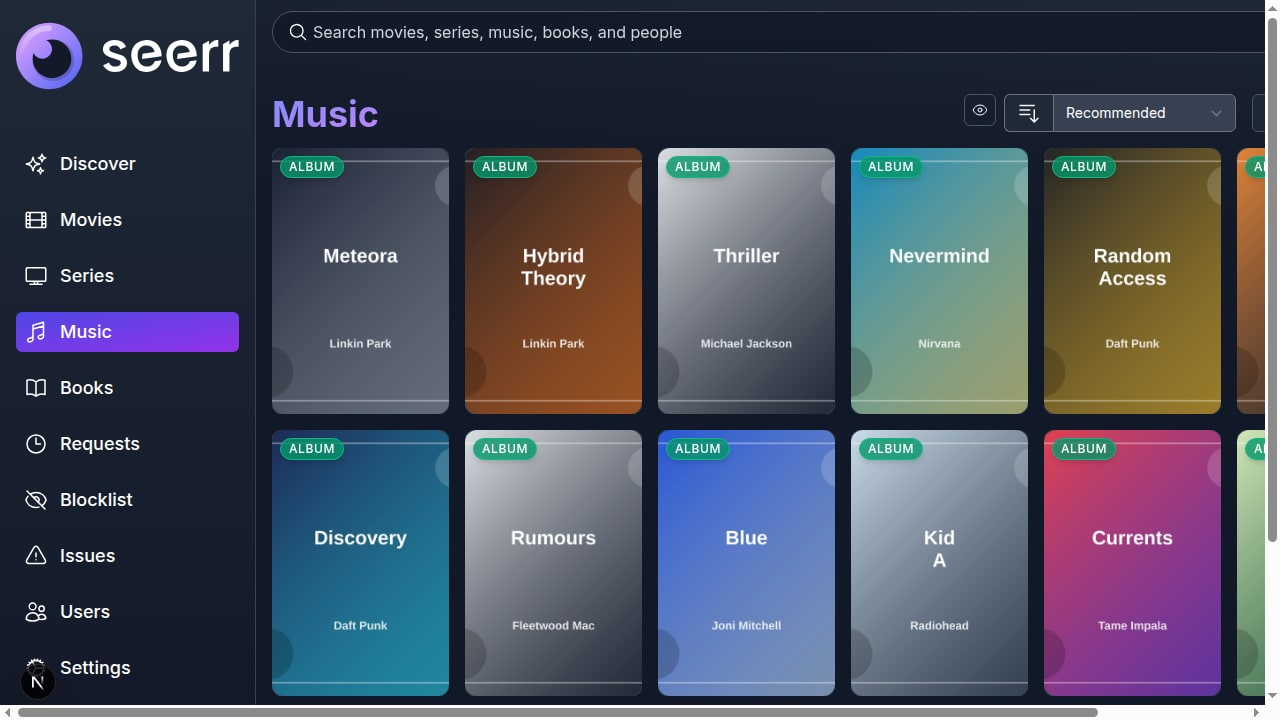
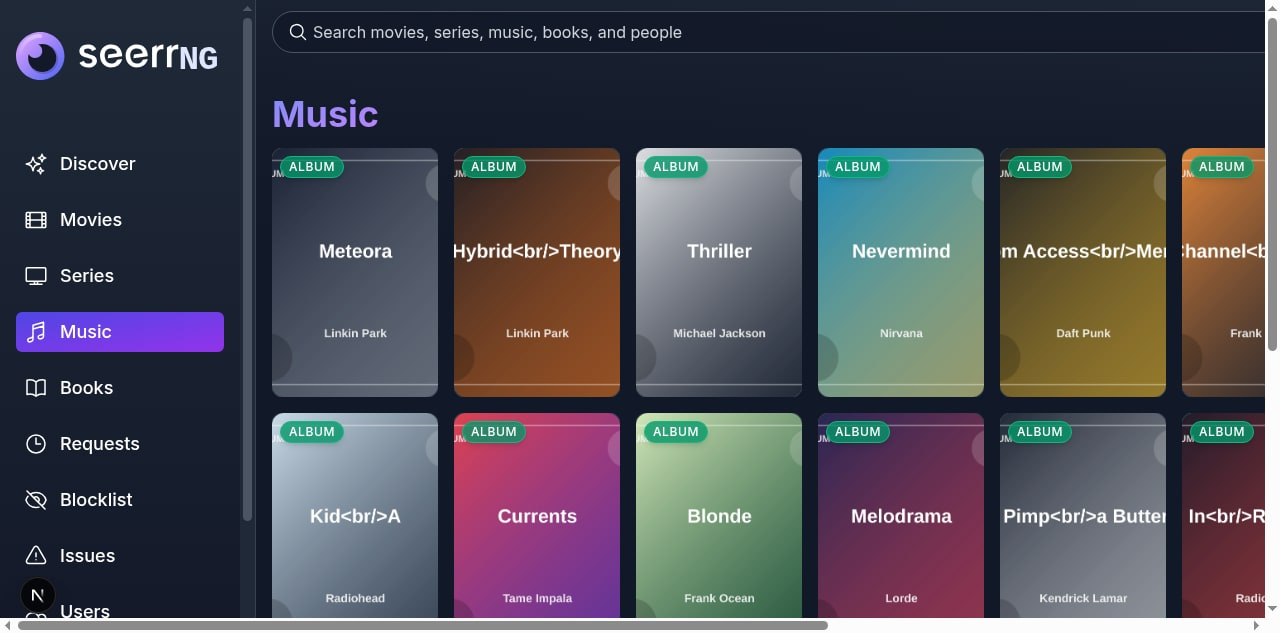
Refresh README screenshots and validate service URLs

diff --git a/server/routes/settings/index.ts b/server/routes/settings/index.ts
@@ -31,7 +31,11 @@ import { getAppVersion } from '@server/utils/appVersion';
 import { dnsCache } from '@server/utils/dnsCache';
 import { getHostname } from '@server/utils/getHostname';
 import { parsePageParams } from '@server/utils/pagination';
-import { preserveRedactedSecrets, redactSecrets } from '@server/utils/security';
+import {
+  isValidHttpUrl,
+  preserveRedactedSecrets,
+  redactSecrets,
+} from '@server/utils/security';
 import {
   parseBoundedString,
   parseOptionalAllowedString,
@@ -107,6 +111,24 @@ const parseOptionalSettingsBodyObject = (
   }
 
   return parseSettingsBodyObject(body);
+};
+
+const validateOptionalHttpUrl = (
+  value: unknown,
+  fieldName: string
+): { value: string | undefined } | { error: string } => {
+  const parsed = parseOptionalBoundedString(value, {
+    fieldName,
+    maxLength: 512,
+  });
+
+  if ('error' in parsed || parsed.value === undefined) {
+    return parsed;
+  }
+
+  return isValidHttpUrl(parsed.value)
+    ? parsed
+    : { error: `${fieldName} must be a valid HTTP URL.` };
 };
 
 const readLogTail = async (
@@ -605,6 +627,15 @@ settingsRoutes.post('/tautulli', async (req, res, next) => {
   if ('error' in parsedBody) {
     return res.status(400).json({ message: parsedBody.error });
   }
+
+  const externalUrl = validateOptionalHttpUrl(
+    parsedBody.value.externalUrl,
+    'externalUrl'
+  );
+  if ('error' in externalUrl) {
+    return res.status(400).json({ message: externalUrl.error });
+  }
+  parsedBody.value.externalUrl = externalUrl.value;
 
   Object.assign(
     settings.tautulli,

diff --git a/server/utils/servarrSettings.ts b/server/utils/servarrSettings.ts
@@ -11,6 +11,7 @@ import {
   parseOptionalBoundedString,
   parseOptionalNonNegativeInteger,
 } from '@server/utils/validation';
+import { isValidHttpUrl } from './security';
 
 const MAX_SERVICE_STRING_LENGTH = 512;
 const MAX_SERVICE_PATH_LENGTH = 4096;
@@ -62,6 +63,20 @@ const parseOptionalServiceString = (
 ): { value: string | undefined } | { error: string } =>
   parseOptionalBoundedString(value, { fieldName, maxLength });
 
+const parseOptionalExternalUrl = (
+  value: unknown
+): { value: string | undefined } | { error: string } => {
+  const parsed = parseOptionalServiceString(value, 'externalUrl');
+
+  if ('error' in parsed || parsed.value === undefined) {
+    return parsed;
+  }
+
+  return isValidHttpUrl(parsed.value)
+    ? parsed
+    : { error: 'externalUrl must be a valid HTTP URL.' };
+};
+
 const parseDvrSettings = (
   body: unknown,
   current?: DVRSettings
@@ -96,10 +111,7 @@ const parseDvrSettings = (
   const baseUrl = parseOptionalServiceString(settings.baseUrl, 'baseUrl');
   if ('error' in baseUrl) return baseUrl;
 
-  const externalUrl = parseOptionalServiceString(
-    settings.externalUrl,
-    'externalUrl'
-  );
+  const externalUrl = parseOptionalExternalUrl(settings.externalUrl);
   if ('error' in externalUrl) return externalUrl;
 
   const tags = parseNumberArray(settings.tags, 'tags');

diff --git a/server/routes/settingsIndex.test.ts b/server/routes/settingsIndex.test.ts
@@ -66,6 +66,19 @@ describe('Settings route input validation', () => {
     assert.strictEqual(saveMock.mock.callCount(), 0);
   });
 
+  it('rejects unsafe Tautulli external URLs before saving', async () => {
+    const settings = getSettings();
+    const saveMock = mock.method(settings, 'save', async () => undefined);
+
+    const res = await request(app).post('/settings/tautulli').send({
+      externalUrl: 'javascript:alert(1)',
+    });
+
+    assert.strictEqual(res.status, 400);
+    assert.match(res.body.message, /externalUrl must be a valid HTTP URL/);
+    assert.strictEqual(saveMock.mock.callCount(), 0);
+  });
+
   it('rejects malformed media server settings bodies before external work', async () => {
     const settings = getSettings();
     const saveMock = mock.method(settings, 'save', async () => undefined);
@@ -143,7 +156,9 @@ describe('Settings route input validation', () => {
   });
 
   it('rejects malformed metadata test bodies before provider calls', async () => {
-    const arrayRes = await request(app).post('/settings/metadatas/test').send([]);
+    const arrayRes = await request(app)
+      .post('/settings/metadatas/test')
+      .send([]);
     const flagRes = await request(app)
       .post('/settings/metadatas/test')
       .send({ tmdb: 'true' });

diff --git a/cypress/e2e/readme-screenshots.cy.ts b/cypress/e2e/readme-screenshots.cy.ts
@@ -130,7 +130,11 @@ const waitForImages = () => {
               }
 
               const timeout = window.setTimeout(() => {
-                reject(new Error(`Timed out loading image: ${image.currentSrc || image.src}`));
+                reject(
+                  new Error(
+                    `Timed out loading image: ${image.currentSrc || image.src}`
+                  )
+                );
               }, 15000);
 
               image.addEventListener(
@@ -145,7 +149,11 @@ const waitForImages = () => {
                 'error',
                 () => {
                   window.clearTimeout(timeout);
-                  reject(new Error(`Failed loading image: ${image.currentSrc || image.src}`));
+                  reject(
+                    new Error(
+                      `Failed loading image: ${image.currentSrc || image.src}`
+                    )
+                  );
                 },
                 { once: true }
               );
@@ -169,8 +177,9 @@ describe('README screenshots', () => {
     cy.get('[data-testid=title-card]').should('have.length.greaterThan', 20);
     cy.contains('Recommended Music').scrollIntoView();
     cy.contains('Meteora').should('be.visible');
-    cy.contains('The Clockwork Sea').should('be.visible');
+    cy.contains('The Clockwork Sea').should('exist');
     waitForImages();
+    cy.contains('Recommended Music').scrollIntoView();
     cy.wait(1000);
     cy.screenshot('readme-discover', { capture: 'viewport' });
   });

diff --git a/server/routes/service.test.ts b/server/routes/service.test.ts
@@ -159,6 +159,16 @@ describe('Radarr settings routes', () => {
     assert.match(res.body.message, /settings must be an object/i);
   });
 
+  it('rejects unsafe external service URLs before persistence', async () => {
+    const res = await request(app)
+      .post('/settings/radarr')
+      .send(makeRadarr({ externalUrl: 'javascript:alert(1)' }));
+
+    assert.strictEqual(res.status, 400);
+    assert.match(res.body.message, /externalUrl must be a valid HTTP URL/i);
+    assert.strictEqual(getSettings().radarr.length, 0);
+  });
+
   it('does not clear Radarr defaults for string boolean payloads', async () => {
     getSettings().radarr = [makeRadarr({ id: 3, name: 'Primary Radarr' })];
 